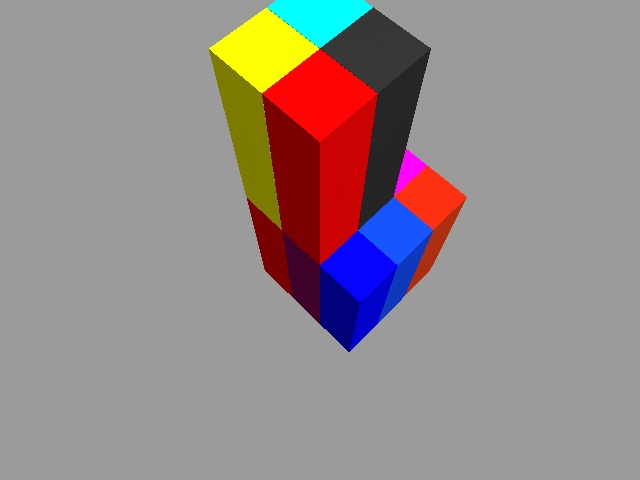
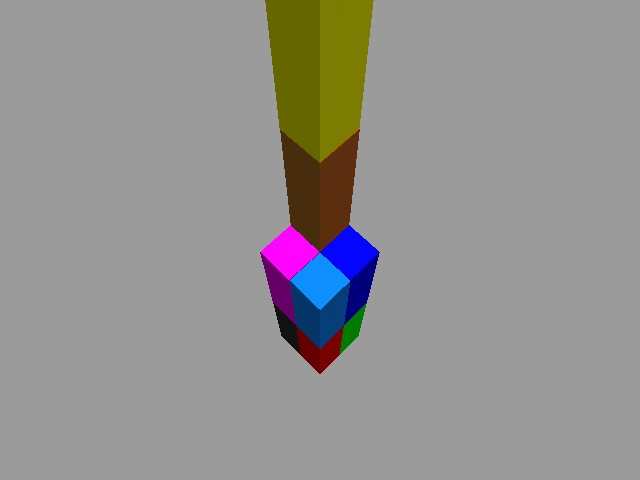
testing out larger structures with more images

Changed region(s): [[0.3125, 0.0, 0.75, 0.7812]]

diff --git a/src/global_constants/src/global_constants/constants.py b/src/global_constants/src/global_constants/constants.py
@@ -21,7 +21,7 @@ CAMERA_DATA = [
 
 ]
 
-zs = [0.6, 1.2, 1.8]
+zs = [0.6, 1.2, 1.8, 2.1]
 delta = .325
 deltas = [(delta, delta, np.pi + np.pi/4), (-delta, delta, 2 * np.pi -np.pi/4), (-delta, -delta, np.pi/4), (delta, -delta, np.pi/2 + np.pi/4)]
 for delta in deltas:
@@ -30,8 +30,10 @@ for delta in deltas:
         CAMERA_DATA.append([(x + delta[0] + .01, y + delta[1] + .01, z), (0 , 1.15, delta[2])])
 
 STRUCTURE_TO_BUILD = [  # Passed into WorldSimulation.add_square_2d
-    [x, y, 3, 0],
+    [x, y, 2, 0],
     [x, y, 2, 1],
+    [x, y, 1, 2],
+    [x, y, 1, 3]
     # [x, y, 1, 2],
 ]
 

diff --git a/src/world_simulation/src/world_simulation.py b/src/world_simulation/src/world_simulation.py
@@ -55,7 +55,8 @@ def create_world_with_structure(world_sim):
     world_sim.add_camera("camera0", Pose(position = Point(0, 0, 0)))
     world_sim.add_camera("camera1", Pose(position = Point(0, 0, 0)))
 
-    for i in range(0, 12):
+    num_cameras = len(camera.CAMERAS)
+    for i in range(0, num_cameras / 2):
         first_camera = "camera{}".format(i * 2)
         second_camera = "camera{}".format(i * 2 + 1)
         utils.move_camera_gazebo("camera0", camera.CAMERAS[first_camera])
